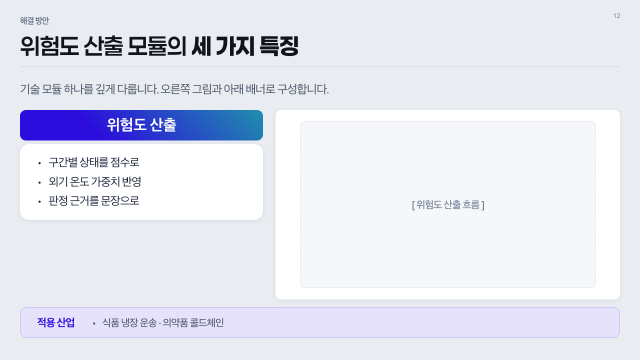
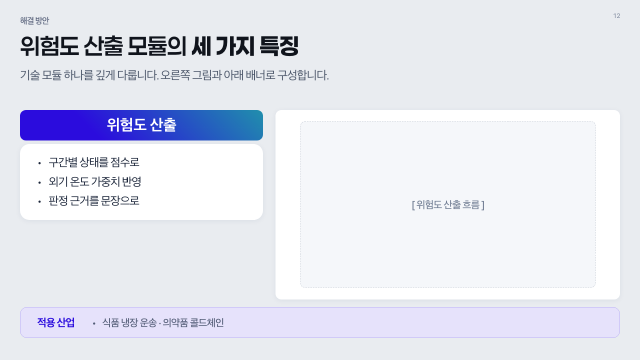
헤드라인·리드 사이 구분선 없애고 리드를 바로 아래(12px)로. 출처·각주가 안전 여백 오류로 잡히던 것 수정

Changed region(s): [[0.0312, 0.1833, 0.5312, 0.275]]

diff --git a/docs/design/index.html b/docs/design/index.html
@@ -340,8 +340,8 @@ tr.dirty .val input{border-color:var(--acc);color:var(--acc)}
 .sl-body .stitle{font-family:var(--deck-semi);font-weight:400;font-size:var(--stitle);color:#10141C;
   line-height:1.2;margin-top:9px;max-width:1100px;word-break:keep-all}
 .sl-body .stitle b{font-family:var(--deck-xbold);font-weight:400}
-.sl-body .rule{height:1px;background:#CFD4DC;margin-top:13px}
-.sl-body .slead{font-size:var(--lead);color:#4A5568;line-height:1.5;margin-top:26px;max-width:1100px}
+.sl-body .rule{display:none}
+.sl-body .slead{font-size:var(--lead);color:#4A5568;line-height:1.5;margin-top:12px;max-width:1100px}
 .sl-body .bodyarea{position:absolute;left:var(--pad);right:var(--pad);top:var(--body-top);bottom:var(--safe-bottom);
   display:flex;flex-direction:column;gap:calc(var(--gap)*var(--k))}
 .sl-body .grid3{display:grid;grid-template-columns:repeat(3,1fr);gap:calc(var(--gap)*var(--k)*1.6);flex:1;min-height:0}
@@ -500,7 +500,7 @@ tr.dirty .val input{border-color:var(--acc);color:var(--acc)}
 
     <section class="blk"><h2>템플릿 12종</h2>
       <p class="note">판형마다 그려야 할 상태를 다 펼쳐 놓았다. 위에서 값을 고치면 여기 29장이 한꺼번에 바뀐다.
-        본문 판형은 머리(아이브로우·헤드라인·구분선·리드)를 똑같이 쓰고 <span class="inl">본문 시작 y</span> 아래만 다르다.
+        본문 판형은 머리(아이브로우·헤드라인·리드)를 똑같이 쓰고 <span class="inl">본문 시작 y</span> 아래만 다르다.
         <b>장표를 누르면 크게 열린다.</b> 열린 뒤에는 ← → 로 옮겨 다니고 Esc 로 닫는다.</p>
       <div id="s-templates"></div>
     </section>
@@ -765,7 +765,7 @@ function buildSections(){
     {tok:'.stitle', name:'헤드라인', sub:'y61 · Paperlogy 6 SemiBold · 한 줄 한글 34자',
       fields:[{key:'stitle',unit:'px',step:0.01,min:12,max:90,alt:function(v){return '· '+(v/PT).toFixed(0)+'pt'}}],
       preview:pvType('현 체계는 세 곳에서 끊긴다','--stitle','--deck-semi',null,'#10141C')},
-    {tok:'.rule', name:'구분선', sub:'y116 · 여백 안쪽 전체 너비', fixed:'1px · #CFD4DC',
+    {tok:'.rule', name:'구분선', sub:'2026-10-09 없앰 — 리드가 헤드라인 바로 아래(12px)', fixed:'없음',
       preview:pvBox(function(d){d.innerHTML='<div style="height:1px;background:#CFD4DC"></div>'})},
     {tok:'.slead', name:'리드', sub:'y143 · 한 줄 한글 74자',
       fields:[{key:'lead',unit:'px',min:8,max:40}],

diff --git a/skills/ppt-maker/app/design-system.html b/skills/ppt-maker/app/design-system.html
@@ -340,8 +340,8 @@ tr.dirty .val input{border-color:var(--acc);color:var(--acc)}
 .sl-body .stitle{font-family:var(--deck-semi);font-weight:400;font-size:var(--stitle);color:#10141C;
   line-height:1.2;margin-top:9px;max-width:1100px;word-break:keep-all}
 .sl-body .stitle b{font-family:var(--deck-xbold);font-weight:400}
-.sl-body .rule{height:1px;background:#CFD4DC;margin-top:13px}
-.sl-body .slead{font-size:var(--lead);color:#4A5568;line-height:1.5;margin-top:26px;max-width:1100px}
+.sl-body .rule{display:none}
+.sl-body .slead{font-size:var(--lead);color:#4A5568;line-height:1.5;margin-top:12px;max-width:1100px}
 .sl-body .bodyarea{position:absolute;left:var(--pad);right:var(--pad);top:var(--body-top);bottom:var(--safe-bottom);
   display:flex;flex-direction:column;gap:calc(var(--gap)*var(--k))}
 .sl-body .grid3{display:grid;grid-template-columns:repeat(3,1fr);gap:calc(var(--gap)*var(--k)*1.6);flex:1;min-height:0}
@@ -500,7 +500,7 @@ tr.dirty .val input{border-color:var(--acc);color:var(--acc)}
 
     <section class="blk"><h2>템플릿 12종</h2>
       <p class="note">판형마다 그려야 할 상태를 다 펼쳐 놓았다. 위에서 값을 고치면 여기 29장이 한꺼번에 바뀐다.
-        본문 판형은 머리(아이브로우·헤드라인·구분선·리드)를 똑같이 쓰고 <span class="inl">본문 시작 y</span> 아래만 다르다.
+        본문 판형은 머리(아이브로우·헤드라인·리드)를 똑같이 쓰고 <span class="inl">본문 시작 y</span> 아래만 다르다.
         <b>장표를 누르면 크게 열린다.</b> 열린 뒤에는 ← → 로 옮겨 다니고 Esc 로 닫는다.</p>
       <div id="s-templates"></div>
     </section>
@@ -765,7 +765,7 @@ function buildSections(){
     {tok:'.stitle', name:'헤드라인', sub:'y61 · Paperlogy 6 SemiBold · 한 줄 한글 34자',
       fields:[{key:'stitle',unit:'px',step:0.01,min:12,max:90,alt:function(v){return '· '+(v/PT).toFixed(0)+'pt'}}],
       preview:pvType('현 체계는 세 곳에서 끊긴다','--stitle','--deck-semi',null,'#10141C')},
-    {tok:'.rule', name:'구분선', sub:'y116 · 여백 안쪽 전체 너비', fixed:'1px · #CFD4DC',
+    {tok:'.rule', name:'구분선', sub:'2026-10-09 없앰 — 리드가 헤드라인 바로 아래(12px)', fixed:'없음',
       preview:pvBox(function(d){d.innerHTML='<div style="height:1px;background:#CFD4DC"></div>'})},
     {tok:'.slead', name:'리드', sub:'y143 · 한 줄 한글 74자',
       fields:[{key:'lead',unit:'px',min:8,max:40}],

diff --git a/docs/templates/deck.html b/docs/templates/deck.html
@@ -42,8 +42,8 @@ body{font-family:var(--font);-webkit-font-smoothing:antialiased;color:var(--text
 .eyebrow .pgno{position:absolute;top:-8px;right:0;font-size:13px;color:var(--text-light);font-weight:500;font-variant-numeric:tabular-nums;}   /* 몇 번째 장인지 — 오른쪽 위 모서리에 따로 띄운다 */
 .stitle{font-family:var(--font-title);font-size:46px;font-weight:400;color:var(--title);line-height:1.2;margin-top:9px;word-break:keep-all;overflow-wrap:break-word;max-width:1100px;}
 .stitle b{font-family:var(--font-title-b);font-weight:400;color:var(--title);}
-.rule{height:1px;background:#CFD4DC;margin-top:13px;}
-.slead{font-size:24px;color:var(--text-mid);line-height:1.5;margin-top:26px;max-width:1100px;}
+.rule{display:none;}   /* 2026-10-09 헤드라인·리드 사이 구분선 없앰 */
+.slead{font-size:24px;color:var(--text-mid);line-height:1.5;margin-top:12px;max-width:1100px;}   /* 헤드라인 바로 아래 */
 .slead b{color:var(--text);font-weight:700;}
 /* body */
 .body{position:absolute;left:var(--pad);right:var(--pad);top:var(--body-top,238px);bottom:var(--safe-bottom);display:flex;flex-direction:column;gap:var(--gap);z-index:3;}

diff --git a/skills/ppt-maker/references/outline-schema.md b/skills/ppt-maker/references/outline-schema.md
@@ -53,7 +53,7 @@
 }
 ```
 
-장표 상단 구조(본문·부록, 미니멀 스타일): **아이브로우**(작은 회색 글씨로 목차(섹션) 이름 하나만, 오른쪽 끝 페이지 번호) → **헤드라인** `title` 46px → 가는 구분선 → **`lead`**(24px 회색, 1~2줄: 집계 기간·전제·근거 요약) → 본문(연회색 배경 위 흰 카드들) → 맨 아래 `callout` 배너. 헤더 바·푸터는 없다. `title` 은 "무엇" 이 아니라 **"그래서 결론이 무엇인가"** 를 담되 **문장이 아니라 명사형으로 끝낸다**("…세 기능으로 구성"). 핵심 구절만 `**…**` 로 감싼다(한 제목에 강조 1곳, 색은 바뀌지 않고 굵기만).
+장표 상단 구조(본문·부록, 미니멀 스타일): **아이브로우**(작은 회색 글씨로 목차(섹션) 이름 하나만, 오른쪽 끝 페이지 번호) → **헤드라인** `title` 46px → 바로 아래 **`lead`**(24px 회색, 1~2줄: 집계 기간·전제·근거 요약) → 본문(연회색 배경 위 흰 카드들) → 맨 아래 `callout` 배너. 헤더 바·푸터는 없다. `title` 은 "무엇" 이 아니라 **"그래서 결론이 무엇인가"** 를 담되 **문장이 아니라 명사형으로 끝낸다**("…세 기능으로 구성"). 핵심 구절만 `**…**` 로 감싼다(한 제목에 강조 1곳, 색은 바뀌지 않고 굵기만).
 
 ## 블록 타입
 
@@ -79,7 +79,7 @@
 
 - **색**: `brand.primary` 하나에서 primaryDark / primaryLight / tint / dark(간지·표지 배경) 파생. `secondary`는 포인트(표지 띠, 간지 번호).
 - **글자 크기**: `fit_slides.mjs`가 장표마다 본문 배율 `--k`를 계산해 빈 공간을 채운다(최대 1.3, dense·airy 같음 — 내용이 적으면 남는 공간은 여백으로 둔다). 헤더 바·제목·리드는 고정 크기. 내용이 넘치면 0.75까지 줄이고, 그래도 넘치면 경고 → 장표를 나눈다.
-- **상단**: 헤더 바 없음. 아이브로우(목차 이름만) + 페이지 번호, 헤드라인, 구분선, lead. (구 헤더 바 설명: 왼쪽 태그(`i · 2` 형식, 부록은 `APPENDIX`, 목차는 `CONTENTS`) + `header`(없으면 섹션명) + `subtitle` + 오른쪽 흰 로고. 표지·간지·마무리에는 없음.
+- **상단**: 헤더 바 없음. 아이브로우(목차 이름만), 오른쪽 위 장 번호, 헤드라인, 바로 아래 lead(구분선은 2026-10-09 없앰). (구 헤더 바 설명: 왼쪽 태그(`i · 2` 형식, 부록은 `APPENDIX`, 목차는 `CONTENTS`) + `header`(없으면 섹션명) + `subtitle` + 오른쪽 흰 로고. 표지·간지·마무리에는 없음.
 - **표지**: `coverBg` 로 고른 그림 하나. 짝이 되는 간지 그림이 있는 배경(`haze`)을 고르면 간지 배경도 같이 바뀐다. 마무리는 늘 그라데이션. 표지는 `subtitle`(설명줄) → `title`(제목) → 왼쪽 아래 로고 → 오른쪽 아래 상자(`event`) 네 덩어리다. pill·docType 박스·기관 칸·기간/날짜는 표지에 넣지 않는다.
 - **목차**: 연회색 배경에 왼쪽 위 `목차`, 오른쪽에 번호(1·2·3) + 섹션명 2열. 쪽수·설명은 적지 않는다. **간지**: 포인트 컬러 그라디언트 배경 + CHAPTER 0N + 섹션명 60px + 로고 워터마크.
 - **표지·목차 글자 규격**(크기·줄 간격·자간·좌표): `design-system.md` 의 "표지·목차 글자 규격" 표. 값은 `scripts/lib/common.mjs` 의 `TYPE`·`COVER_BOX`·`AGENDA_BOX` 한 곳에만 둔다.

diff --git a/skills/ppt-maker/references/design-system.md b/skills/ppt-maker/references/design-system.md
@@ -13,7 +13,7 @@
 - **알약 제목**(2026-10-09): 모서리 12px(`shape.pill`), 바탕은 메인 컬러에 오른쪽 위에서 초록(`accent.glow` #19E68C 60%)이 내려오는 그라데이션(`linear-gradient(225deg)`, 70% 지점까지). PPTX 는 단색.
 - **컬러·글꼴 원본**(2026-10-09): 컬러는 `design-system/colors.json`(primary 800·700·600·400·300·200, 회색, 상태색), 글꼴은 `design-system/fonts.json`. 크기·여백·모서리는 `design-tokens.json`. 메인 = primary 600 `#2B0CDD`, 보조 = primary 400 `#5D48FF`. 메인이 스케일의 600 과 같으면 진한 단계(간지 그라데이션 등)는 스케일의 800·700 을 그대로 쓴다.
 - **팔레트**: 배경 연회색 `--page` #E9ECF0, 카드 흰색 + 그림자 `0 2px 12px rgba(20,40,80,.07)`, `--primary` 포인트 컬러(#2F0CC5 보라, 카드 상단 띠·강조), `--primary-2` 파랑(#1E5BB8, 보조 수치 문장·그래프 선), 연파랑 틴트(`--primary-softer`, 강조 박스·TO-BE 카드), 본문 #1A2438 / 보조 #4A5568. 이모지·그라디언트 텍스트·다중 그림자 금지. Pretendard, 자간 -0.015em~-0.03em(제목).
-- **본문 장표 골격**(1280×720, **좌우 여백 40px** — 사용자 원본 PPTX 기준): 아이브로우 17px(y=30, `--body` #515B75, **그 장표가 속한 목차(섹션) 이름 하나만**) · 장 번호(몇 번째 장인지, 13px `--text-light`)는 아이브로우 줄과 따로 **오른쪽 위 모서리**(y=22)에 → 헤드라인 **34.5pt(46px)** 검정 계열 `--title` #10141C(y=61, `**강조**` 는 같은 색 800 굵기) → 1px 구분선(y=116, 여백 안쪽 전체 너비) → lead 18pt(24px) 회색(y=143, 줄간격 150%) → 본문(카드, 리드 1줄이면 y=220 부터) → 맨 아래 배너 → 출처·각주(있을 때만). 헤더 바 없음. 표지·간지·마무리는 그라디언트 배경.
+- **본문 장표 골격**(1280×720, **좌우 여백 40px** — 사용자 원본 PPTX 기준): 아이브로우 17px(y=30, `--body` #515B75, **그 장표가 속한 목차(섹션) 이름 하나만**) · 장 번호(몇 번째 장인지, 13px `--text-light`)는 아이브로우 줄과 따로 **오른쪽 위 모서리**(y=22)에 → 헤드라인 **34.5pt(46px)** 검정 계열 `--title` #10141C(y=61, `**강조**` 는 같은 색 800 굵기) → lead 18pt(24px) 회색(헤드라인 바로 아래 12px, y≈124, 줄간격 150%. 구분선은 2026-10-09 없앰) → 본문(카드, 리드 1줄이면 y=220 부터) → 맨 아래 배너 → 출처·각주(있을 때만). 헤더 바 없음. 표지·간지·마무리는 그라디언트 배경.
 - **글자 크기·간격(원본 PPTX 와 동일하게)**: 본문 불릿 17pt·진한 색(`--text`), 카드 안 소제목 16pt 굵게·연한 회색(`--body`), 알약 제목 18pt 굵게 흰색, 배너 라벨 15pt·본문 14pt. **자간은 전부 −0.8pt**(`letter-spacing:-.8pt` / `charSpacing:-0.8`). 불릿 줄높이 1.25, 항목 사이 간격은 0.4~0.9em 에서 자동.
 - **제목 규칙**(2026-09-14): 헤드라인은 **문장이 아니라 명사형으로 끝낸다** — "…세 기능으로 구성", "…24주 일정". "~한다/~합니다/~이다" 금지. 강조는 색이 아니라 굵기로만 준다.
 - **번호 표기**: 목차·간지는 로마숫자 대신 **1·2·3 숫자**(목차 번호 36px 800). `meta.numbering` 은 쓰지 않는다.

diff --git a/skills/ppt-maker/templates/components.md b/skills/ppt-maker/templates/components.md
@@ -12,7 +12,7 @@
 | 아이브로우(섹션명) | 본문 전체 | 완료 | 17px, `--body` #515B75 |
 | 장 번호(몇 번째 장인지) | 본문 전체 | 완료 | 13px `--text-light`, 오른쪽 위 모서리 y=22 |
 | 헤드라인 | 본문 전체 | 완료 | 46px, 강조 구절 굵게. 두 줄이면 본문 시작을 내림 |
-| 구분선 | 본문 전체 | 완료 | 1px #CFD4DC |
+| 구분선 | 본문 전체 | 삭제 | 2026-10-09 없앰. 리드가 헤드라인 바로 아래(12px) |
 | 리드(3번째 줄) | 본문 전체 | 완료 | 24px `--text-mid`, `~습니다` |
 | 출처·각주 | 수치·인용 장표 | 점검 | 맨 아래 작은 글씨. 크기·색·위치 |
 
